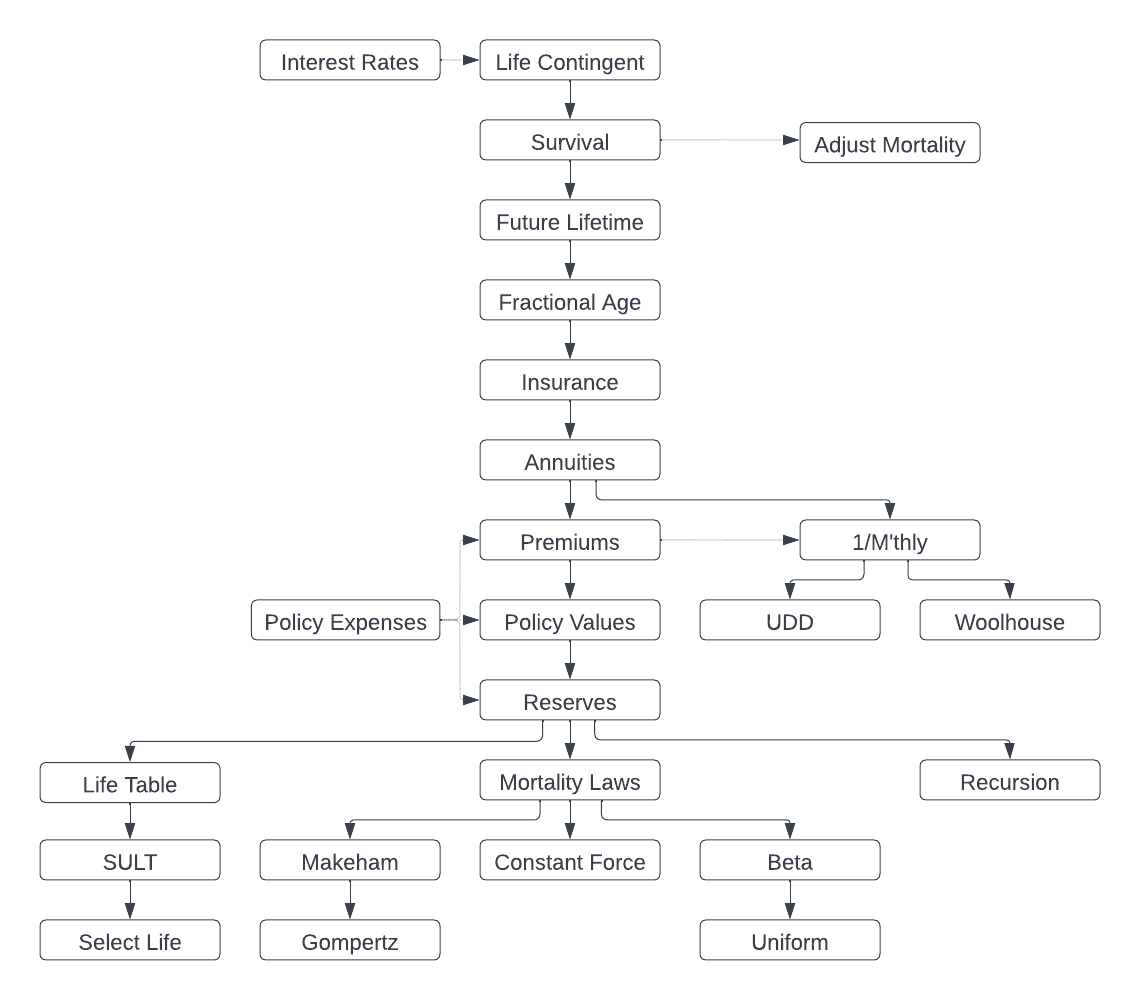
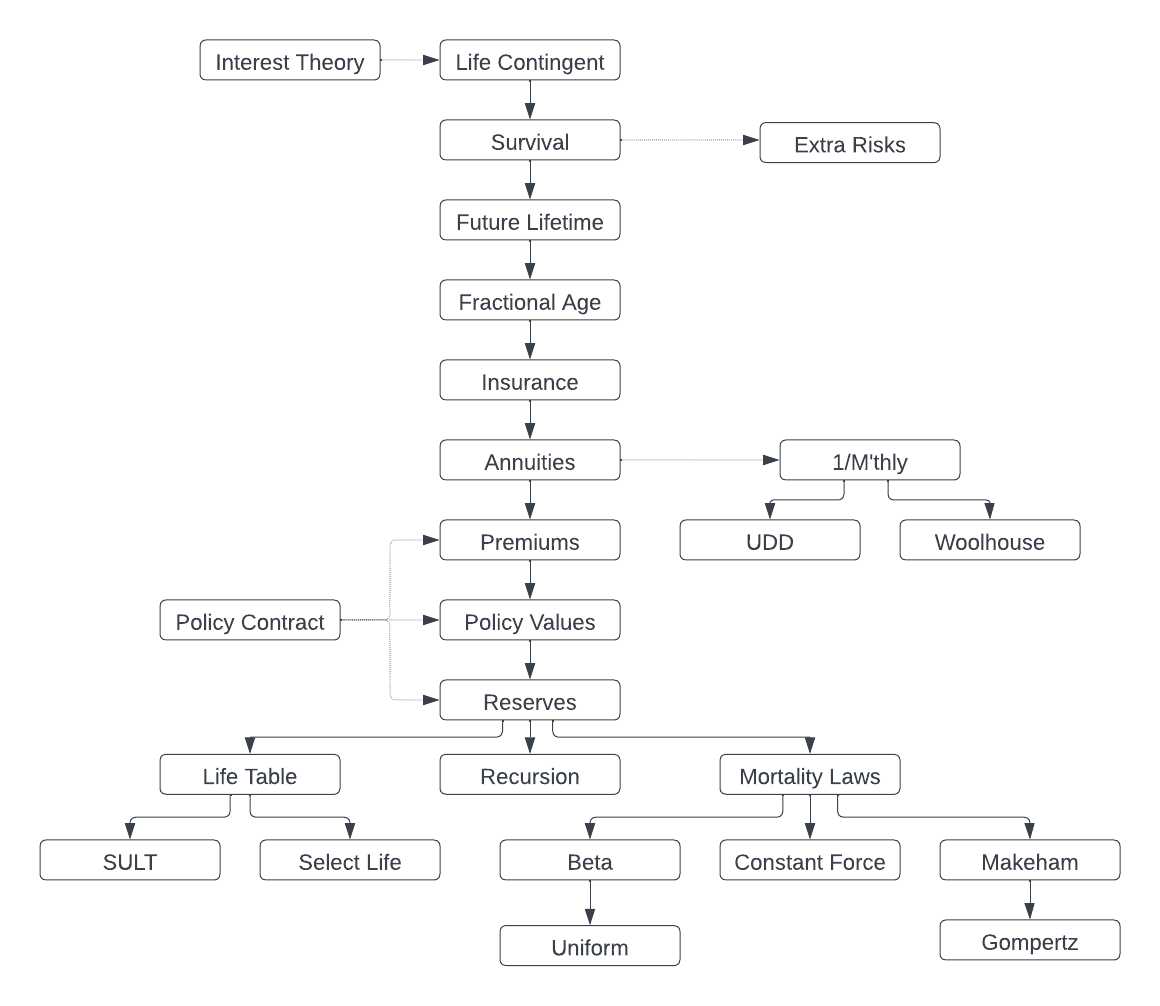
Add files via upload

diff --git a/README.md b/README.md
@@ -1,72 +1,103 @@
-# Actuarial Math
+# Introduction
 
-## Actuarial Math - Life Contingent Risks
+__actuarialmath -- Life Contingent Risks with Python__
 
-This `actuarialmath` package implements in Python the general
-formulas, recursive relationships and shortcut equations for
-Fundamentals of Long Term Actuarial Mathematics, to solve the SOA
-sample FAM-L questions and more.
+This package implements fundamental methods for modeling life contingent risks, and closely follows traditional topics covered in actuarial exams and standard texts such as the "Fundamentals of Actuarial Math - Long-term" exam syllabus by the Society of Actuaries, and "Actuarial Mathematics for Life Contingent Risks" by Dickson, Hardy and Waters.
 
-- The concepts are developed hierarchically in [object-oriented Python](https://github.com/terence-lim/actuarialmath.git).
+The actuarial concepts are introduced hierarchically, and realized by corresponding derivations of Python classes. It is hoped that the use of this package can support a learner's journey through actuarial problem-solving and computing.
 
-- Each module incrementally introduces the [formulas used](https://terence-lim.github.io/notes/actuarialmath.pdf).
-
-- The SOA sample questions (released in August 2022) are solved in an
-[executable Google Colab Notebook](https://colab.research.google.com/drive/1qguTCMQSk0m273IHApXA7IpUJwSoKEb-?usp=sharing).
+The resources listed below should be helpful for getting started. In particular, you can run, and modify, the code chunks demonstrated in a [Jupyter Notebook](https://terence-lim.github.io/actuarialmath-tutorial/_sources/faml.ipynb), to solve each of the sample FAM-L exam questions released by the SOA.
 
 Enjoy!
 
 Terence Lim
 
-MIT License. Copyright 2022, Terence Lim
-
 ## Concepts and Classes
 
-![actuarialmath](FAM-L.png)
+```{image} FAM-L.png
+:name: label
+```
+
+## Quick Start
+
+1. `pip install actuarialmath`
+2. Select a suitable subclass to initialize with your actuarial assumptions, such as `MortalityLaws` (or a special law like `ConstantForce`), `LifeTable`, `SULT`, `SelectTable` or `Recursion`.
+3. Call tappropriate methods to compute intermediate or final results, or to `solve` parameter values implicitly.
+4. If needed, adjust the answers with `ExtraRisk` or `Mthly` (or its `UDD` or `Woolhouse`) classes.
 
 ## Examples
 
-- SOA sample question 5.7: Given $A_{35} = 0.188$, $A_{65} = 0.498$, $S_{35}(30) = 0.883$, calculate the EPV of a temporary annuity $\ddot{a}^{(2)}_{35:\overline{30|}}$ paid half-yearly using the Woolhouse approximation.
+__SOA FAM-L sample question 5.7__: 
+
+Given $A_{35} = 0.188$, $A_{65} = 0.498$, $S_{35}(30) = 0.883$, calculate the EPV of a temporary annuity $\ddot{a}^{(2)}_{35:\overline{30|}}$ paid half-yearly using the Woolhouse approximation.
 
 ```
-life = Recursion(interest=dict(i=0.04))
-life.set_A(0.188, x=35).set_A(0.498, x=65).set_p(0.883, x=35, t=30)
+from actuarialmath.recursion import Recursion
+from actuarialmath.woolhouse import Woolhouse
+# initialize Recursion class with actuarial inputs
+life = Recursion().set_interest(i=0.04)\
+                  .set_A(0.188, x=35)\
+                  .set_A(0.498, x=65)\
+                  .set_p(0.883, x=35, t=30)
+# modfy the standard results with Woolhouse mthly approximation
 mthly = Woolhouse(m=2, life=life, three_term=False)
-print(1000 * mthly.temporary_annuity(35, t=30))
+# compute the desired temporary annuity value
+print(1000 * mthly.temporary_annuity(35, t=30)) #   solution = 17376.7
 ```
 
-- SOA sample question 7.20: Calculate the policy value and
-  modified reserve, where gross premiums are given by the 
-  equivalence principle, of a whole life insurance where 
-  mortality follows the Standard Ultimate Life Table.
+__SOA FAM-L sample question 7.20__:
 
+For a fully discrete whole life insurance of 1000 on (35), you are given
+- First year expenses are 30% of the gross premium plus 300
+- Renewal expenses are 4% of the gross premium plus 30
+- All expenses are incurred at the beginning of the policy year
+- Gross premiums are calculated using the equivalence principle
+- The gross premium policy value at the end of the first policy year is R
+- Using the Full Preliminary Term Method, the modified reserve at the end of the first policy year is S
+- Mortality follows the Standard Ultimate Life Table
+- _i_ = 0.05
+
+Calculate R − S
 ```
+from actuarialmath.sult import SULT   # use Standard Ultimate Life Table
+from actuarialmath.policyvalues import Contract
 life = SULT()
-S = life.FPT_policy_value(35, t=1, b=1000)
-policy = Policy(benefit=1000, initial_premium=.3, initial_policy=300,
-                renewal_premium=.04, renewal_policy=30)
-P = life.gross_premium(A=life.whole_life_insurance(35), **policy.premium_terms)
-R = life.gross_policy_value(35, t=1, policy=policy.set(premium=P))
+# compute the required FPT policy value
+S = life.FPT_policy_value(35, t=1, b=1000)  # is always 0 in year 1!
+# input the given policy contract terms
+contract = Contract(benefit=1000,
+                    initial_premium=.3,
+                    initial_policy=300,
+                    renewal_premium=.04,
+                    renewal_policy=30)
+# compute gross premium using the equivalence principle
+G = life.gross_premium(A=life.whole_life_insurance(35), **contract.premium_terms)
+# compute the required policy value
+R = life.gross_policy_value(35, t=1, contract=contract.set_contract(premium=G))
+print(R-S)   # solution = -277.19
 ```
+
 
 ## Resources
 
-- Documentation of formulas, classes and methods: [actuarialmath.pdf](https://terence-lim.github.io/notes/actuarialmath.pdf)
+1. [Jupyter Notebook](https://terence-lim.github.io/actuarialmath-tutorial/_sources/faml.ipynb), or [Colab](https://colab.research.google.com/drive/1TcNr1x5HbT2fF3iFMYGXdN_cvRKiSua4?usp=sharing), with code chunks to solve all sample SOA FAM-L exam questions.
 
-- Executable Google Colab notebook: [faml.ipynb](https://colab.research.google.com/drive/1qguTCMQSk0m273IHApXA7IpUJwSoKEb-?usp=sharing)
+2. [Online tutorial](https://terence-lim.github.io/actuarialmath-tutorial/) or [pdf version](https://terence-lim.github.io/notes/actuarialmath-tutorial.pdf).
 
-- Github repo: [https://github.com/terence-lim/actuarialmath.git](https://github.com/terence-lim/actuarialmath.git)
+3. [Github repo and issues](https://github.com/terence-lim/actuarialmath).
 
-- SOA FAM-L Sample Solutions: [copy retrieved Aug 2022](https://terence-lim.github.io/notes/2022-10-exam-fam-l-sol.pdf)
+4. [Code documentation](https://actuarialmath.readthedocs.io/en/latest/index.html).
+
+
+
+## Sources
 
 - SOA FAM-L Sample Questions: [copy retrieved Aug 2022](https://terence-lim.github.io/notes/2022-10-exam-fam-l-quest.pdf)
 
-- Actuarial Mathematics for Life Contingent Risks (Dickson, Hardy and Waters), Institute and Faculty of Actuaries, published by Cambridge University Press
+- SOA FAM-L Sample Solutions: [copy retrieved Aug 2022](https://terence-lim.github.io/notes/2022-10-exam-fam-l-sol.pdf)
 
-## Contact me
+- Actuarial Mathematics for Life Contingent Risks, by David Dickson, Mary Hardy and Howard Waters, published by Cambridge University Press.
 
-Linkedin: [https://www.linkedin.com/in/terencelim](https://www.linkedin.com/in/terencelim)
+## Contact
 
 Github: [https://terence-lim.github.io](https://terence-lim.github.io)
-
-
